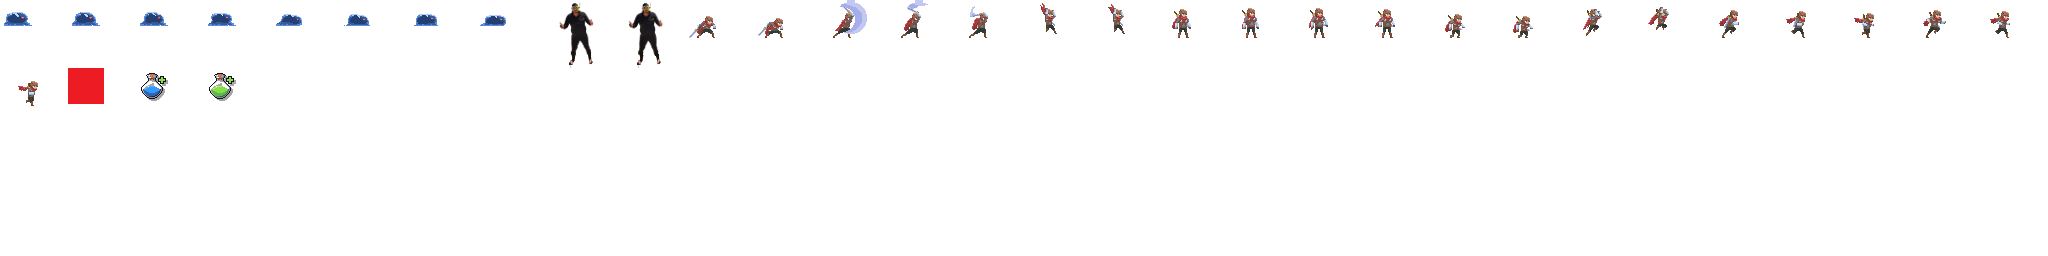
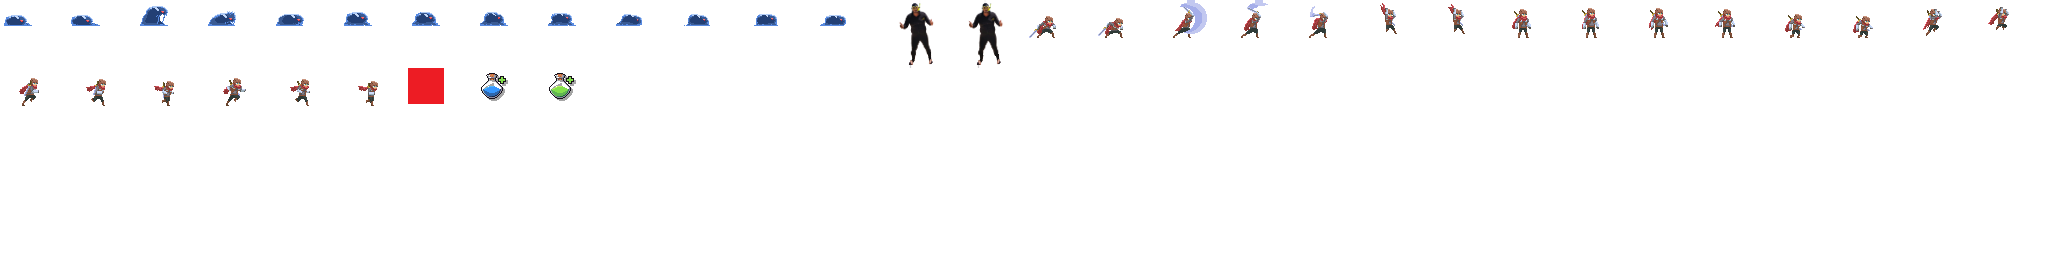
enemies can now attack when within attack range! ;)

Changed region(s): [[0.0, 0.0, 1.0, 0.25], [0.0, 0.25, 0.2812, 0.4062]]

diff --git a/core/src/main/kotlin/com/game/quillyjumper/ecs/system/AggroSystem.kt b/core/src/main/kotlin/com/game/quillyjumper/ecs/system/AggroSystem.kt
@@ -2,24 +2,43 @@ package com.game.quillyjumper.ecs.system
 
 import com.badlogic.ashley.core.Entity
 import com.badlogic.ashley.systems.IteratingSystem
+import com.badlogic.gdx.math.Vector2
 import com.game.quillyjumper.ecs.component.*
 import ktx.ashley.allOf
 
 class AggroSystem :
     IteratingSystem(allOf(AggroComponent::class, TransformComponent::class, MoveComponent::class).get()) {
+
+    private fun isWithinAttackRange(pos: Vector2, size: Vector2, aggroPos: Vector2, aggroSize: Vector2, range: Float) =
+        (pos.x - range <= aggroPos.x + aggroSize.x && pos.x >= aggroPos.x + aggroSize.x) // aggro entity is on left attack range
+                || (pos.x + size.x <= aggroPos.x && pos.x + size.x + range >= aggroPos.x) // aggro entity is on right attack range
+
     override fun processEntity(entity: Entity, deltaTime: Float) {
         val entities = entity.aggroCmp.aggroEntities
         if (entities.size > 0) {
-            // entities are within aggro range -> move towards the first entity
-            val firstEntity = entities[0]
-            if (firstEntity.transfCmp.position.x < entity.transfCmp.position.x) {
+            // entities are within aggro range -> move towards/attack the first entity
+            val transform = entity.transfCmp
+            val attack = entity.attackCmp
+            val aggroTransform = entities[0].transfCmp
+            if (attack.canAttack() && isWithinAttackRange(
+                    transform.position,
+                    transform.size,
+                    aggroTransform.position,
+                    aggroTransform.size,
+                    attack.range
+                )
+            ) {
+                // aggro entity is within attack range
+                attack.order = AttackOrder.START
+            }
+
+            if (aggroTransform.position.x < transform.position.x) {
                 // aggro entity is on the left side
                 entity.moveCmp.order = MoveOrder.LEFT
             } else {
                 // aggro entity is on the right side
                 entity.moveCmp.order = MoveOrder.RIGHT
             }
-            // TODO if entity within attack range then give attack order
         } else {
             // no entities in range -> do nothing
             entity.moveCmp.order = MoveOrder.NONE

diff --git a/core/src/main/kotlin/com/game/quillyjumper/ai/DefaultEnemyState.kt b/core/src/main/kotlin/com/game/quillyjumper/ai/DefaultEnemyState.kt
@@ -1,20 +1,42 @@
 package com.game.quillyjumper.ai
 
 import com.badlogic.ashley.core.Entity
-import com.game.quillyjumper.ecs.component.AnimationType
-import com.game.quillyjumper.ecs.component.MoveOrder
-import com.game.quillyjumper.ecs.component.moveCmp
-import com.game.quillyjumper.ecs.component.stateCmp
+import com.game.quillyjumper.ecs.component.*
 
 enum class DefaultEnemyState(override val aniType: AnimationType, override val loopAni: Boolean = true) : EntityState {
     IDLE(AnimationType.IDLE) {
         override fun update(entity: Entity) {
-            if (entity.moveCmp.order != MoveOrder.NONE) entity.stateCmp.stateMachine.changeState(RUN)
+            when {
+                entity.attackCmp.order == AttackOrder.START -> entity.stateCmp.stateMachine.changeState(ATTACK)
+                entity.moveCmp.order != MoveOrder.NONE -> entity.stateCmp.stateMachine.changeState(RUN)
+            }
+
         }
     },
     RUN(AnimationType.RUN) {
         override fun update(entity: Entity) {
-            if (entity.moveCmp.order == MoveOrder.NONE) entity.stateCmp.stateMachine.changeState(IDLE)
+            when {
+                entity.attackCmp.order == AttackOrder.START -> entity.stateCmp.stateMachine.changeState(ATTACK)
+                entity.moveCmp.order == MoveOrder.NONE -> entity.stateCmp.stateMachine.changeState(IDLE)
+            }
+        }
+    },
+    ATTACK(AnimationType.ATTACK, false) {
+        override fun enter(entity: Entity) {
+            // stop any movement
+            entity.moveCmp.order = MoveOrder.NONE
+            entity.jumpCmp.order = JumpOrder.NONE
+            // attack once
+            entity.attackCmp.order = AttackOrder.ATTACK_ONCE
+            // update animation
+            super.enter(entity)
+        }
+
+        override fun update(entity: Entity) {
+            if (entity.aniCmp.isAnimationFinished()) {
+                entity.attackCmp.order = AttackOrder.NONE
+                entity.stateCmp.stateMachine.changeState(IDLE)
+            }
         }
     }
 }

diff --git a/core/src/main/kotlin/com/game/quillyjumper/ecs/system/DamageSystem.kt b/core/src/main/kotlin/com/game/quillyjumper/ecs/system/DamageSystem.kt
@@ -37,8 +37,9 @@ class DamageSystem(private val normalFont: BitmapFont) :
                         // let damage fluctuate within 10%
                         val stats = collEntity.statsCmp
                         val damageDealt = damage * MathUtils.random(0.9f, 1.1f)
-                        // formula : dealtDamage = damage of source - armor value of enemy
-                        val damageValue = max(damageDealt - stats.armor, 0f)
+                        // formula : dealtDamage = damage of source reduced by armor value
+                        // armor of 1 reduces the damage by 1%; armor 10 reduces by 10%, armor 100 reduces by 100%
+                        val damageValue = max(damageDealt * (1f - stats.armor * 0.01f), 0f)
                         stats.life -= damageValue
 
                         // create floating text to display damage number to player

diff --git a/core/src/main/kotlin/com/game/quillyjumper/screen/GameScreen.kt b/core/src/main/kotlin/com/game/quillyjumper/screen/GameScreen.kt
@@ -140,13 +140,14 @@ class GameScreen(
             cfg(Character.BLUE_SLIME, EntityType.ENEMY, ModelType.BLUE_SLIME) {
                 speed = 0.3f
                 size(0.5f, 0.5f)
+                attackRange = 0.15f
+                attackCooldown = 2f
                 damage = 2f
                 life = 10f
                 defaultState = DefaultEnemyState.IDLE
                 aggroRange = 2.5f
             }
             cfg(Character.FLIPPY, EntityType.OTHER, ModelType.FLIPPY) {
-                speed = 0f
                 size(0.65f, 2f)
                 collisionBodyOffset(3f * UNIT_SCALE, 0f)
             }

diff --git a/core/src/main/kotlin/com/game/quillyjumper/ecs/system/AttackSystem.kt b/core/src/main/kotlin/com/game/quillyjumper/ecs/system/AttackSystem.kt
@@ -18,7 +18,7 @@ class AttackSystem(private val world: World) : IteratingSystem(
 ) {
     override fun processEntity(entity: Entity, deltaTime: Float) {
         entity.attackCmp.run {
-            if (attackTime <= 0f && order == AttackOrder.ATTACK_ONCE) {
+            if (canAttack() && order == AttackOrder.ATTACK_ONCE) {
                 // entity wants to attack and has no cooldown on its attack
                 // 1) set cooldown
                 attackTime = cooldown

diff --git a/core/src/main/kotlin/com/game/quillyjumper/ecs/component/AttackComponent.kt b/core/src/main/kotlin/com/game/quillyjumper/ecs/component/AttackComponent.kt
@@ -16,6 +16,8 @@ class AttackComponent(
     companion object {
         val mapper = mapperFor<AttackComponent>()
     }
+
+    fun canAttack() = attackTime <= 0f
 }
 
 val Entity.attackCmp: AttackComponent

diff --git a/Quilly Jumper.mm b/Quilly Jumper.mm
@@ -519,9 +519,10 @@
 <icon BUILTIN="button_ok"/>
 </node>
 </node>
-<node COLOR="#00b439" CREATED="1568557549342" ID="ID_649335855" MODIFIED="1569657646749" TEXT="add blue slime AI so that it moves towards player and attacks him when in range">
+<node COLOR="#00b439" CREATED="1568557549342" ID="ID_649335855" MODIFIED="1569684377126" TEXT="add blue slime AI so that it moves towards player and attacks him when in range">
 <edge STYLE="bezier" WIDTH="thin"/>
 <font NAME="SansSerif" SIZE="16"/>
+<icon BUILTIN="button_ok"/>
 </node>
 <node COLOR="#00b439" CREATED="1569605656352" FOLDED="true" ID="ID_792597135" MODIFIED="1569657638512" TEXT="refactor code with .cmp syntax (refer to collision component)">
 <edge STYLE="bezier" WIDTH="thin"/>
@@ -531,7 +532,7 @@
 <font NAME="SansSerif" SIZE="14"/>
 </node>
 </node>
-<node COLOR="#00b439" CREATED="1567791159831" FOLDED="true" ID="ID_1358993190" MODIFIED="1567791252871" TEXT="Update Wikipedia page of project">
+<node COLOR="#00b439" CREATED="1567791159831" FOLDED="true" ID="ID_1358993190" MODIFIED="1569684386212" TEXT="Update Wikipedia page of project">
 <edge STYLE="bezier" WIDTH="thin"/>
 <font NAME="SansSerif" SIZE="16"/>
 <node COLOR="#990000" CREATED="1567791166566" ID="ID_940234751" MODIFIED="1567791175621" TEXT="Gimp Sprite Gutter plugin for map">
